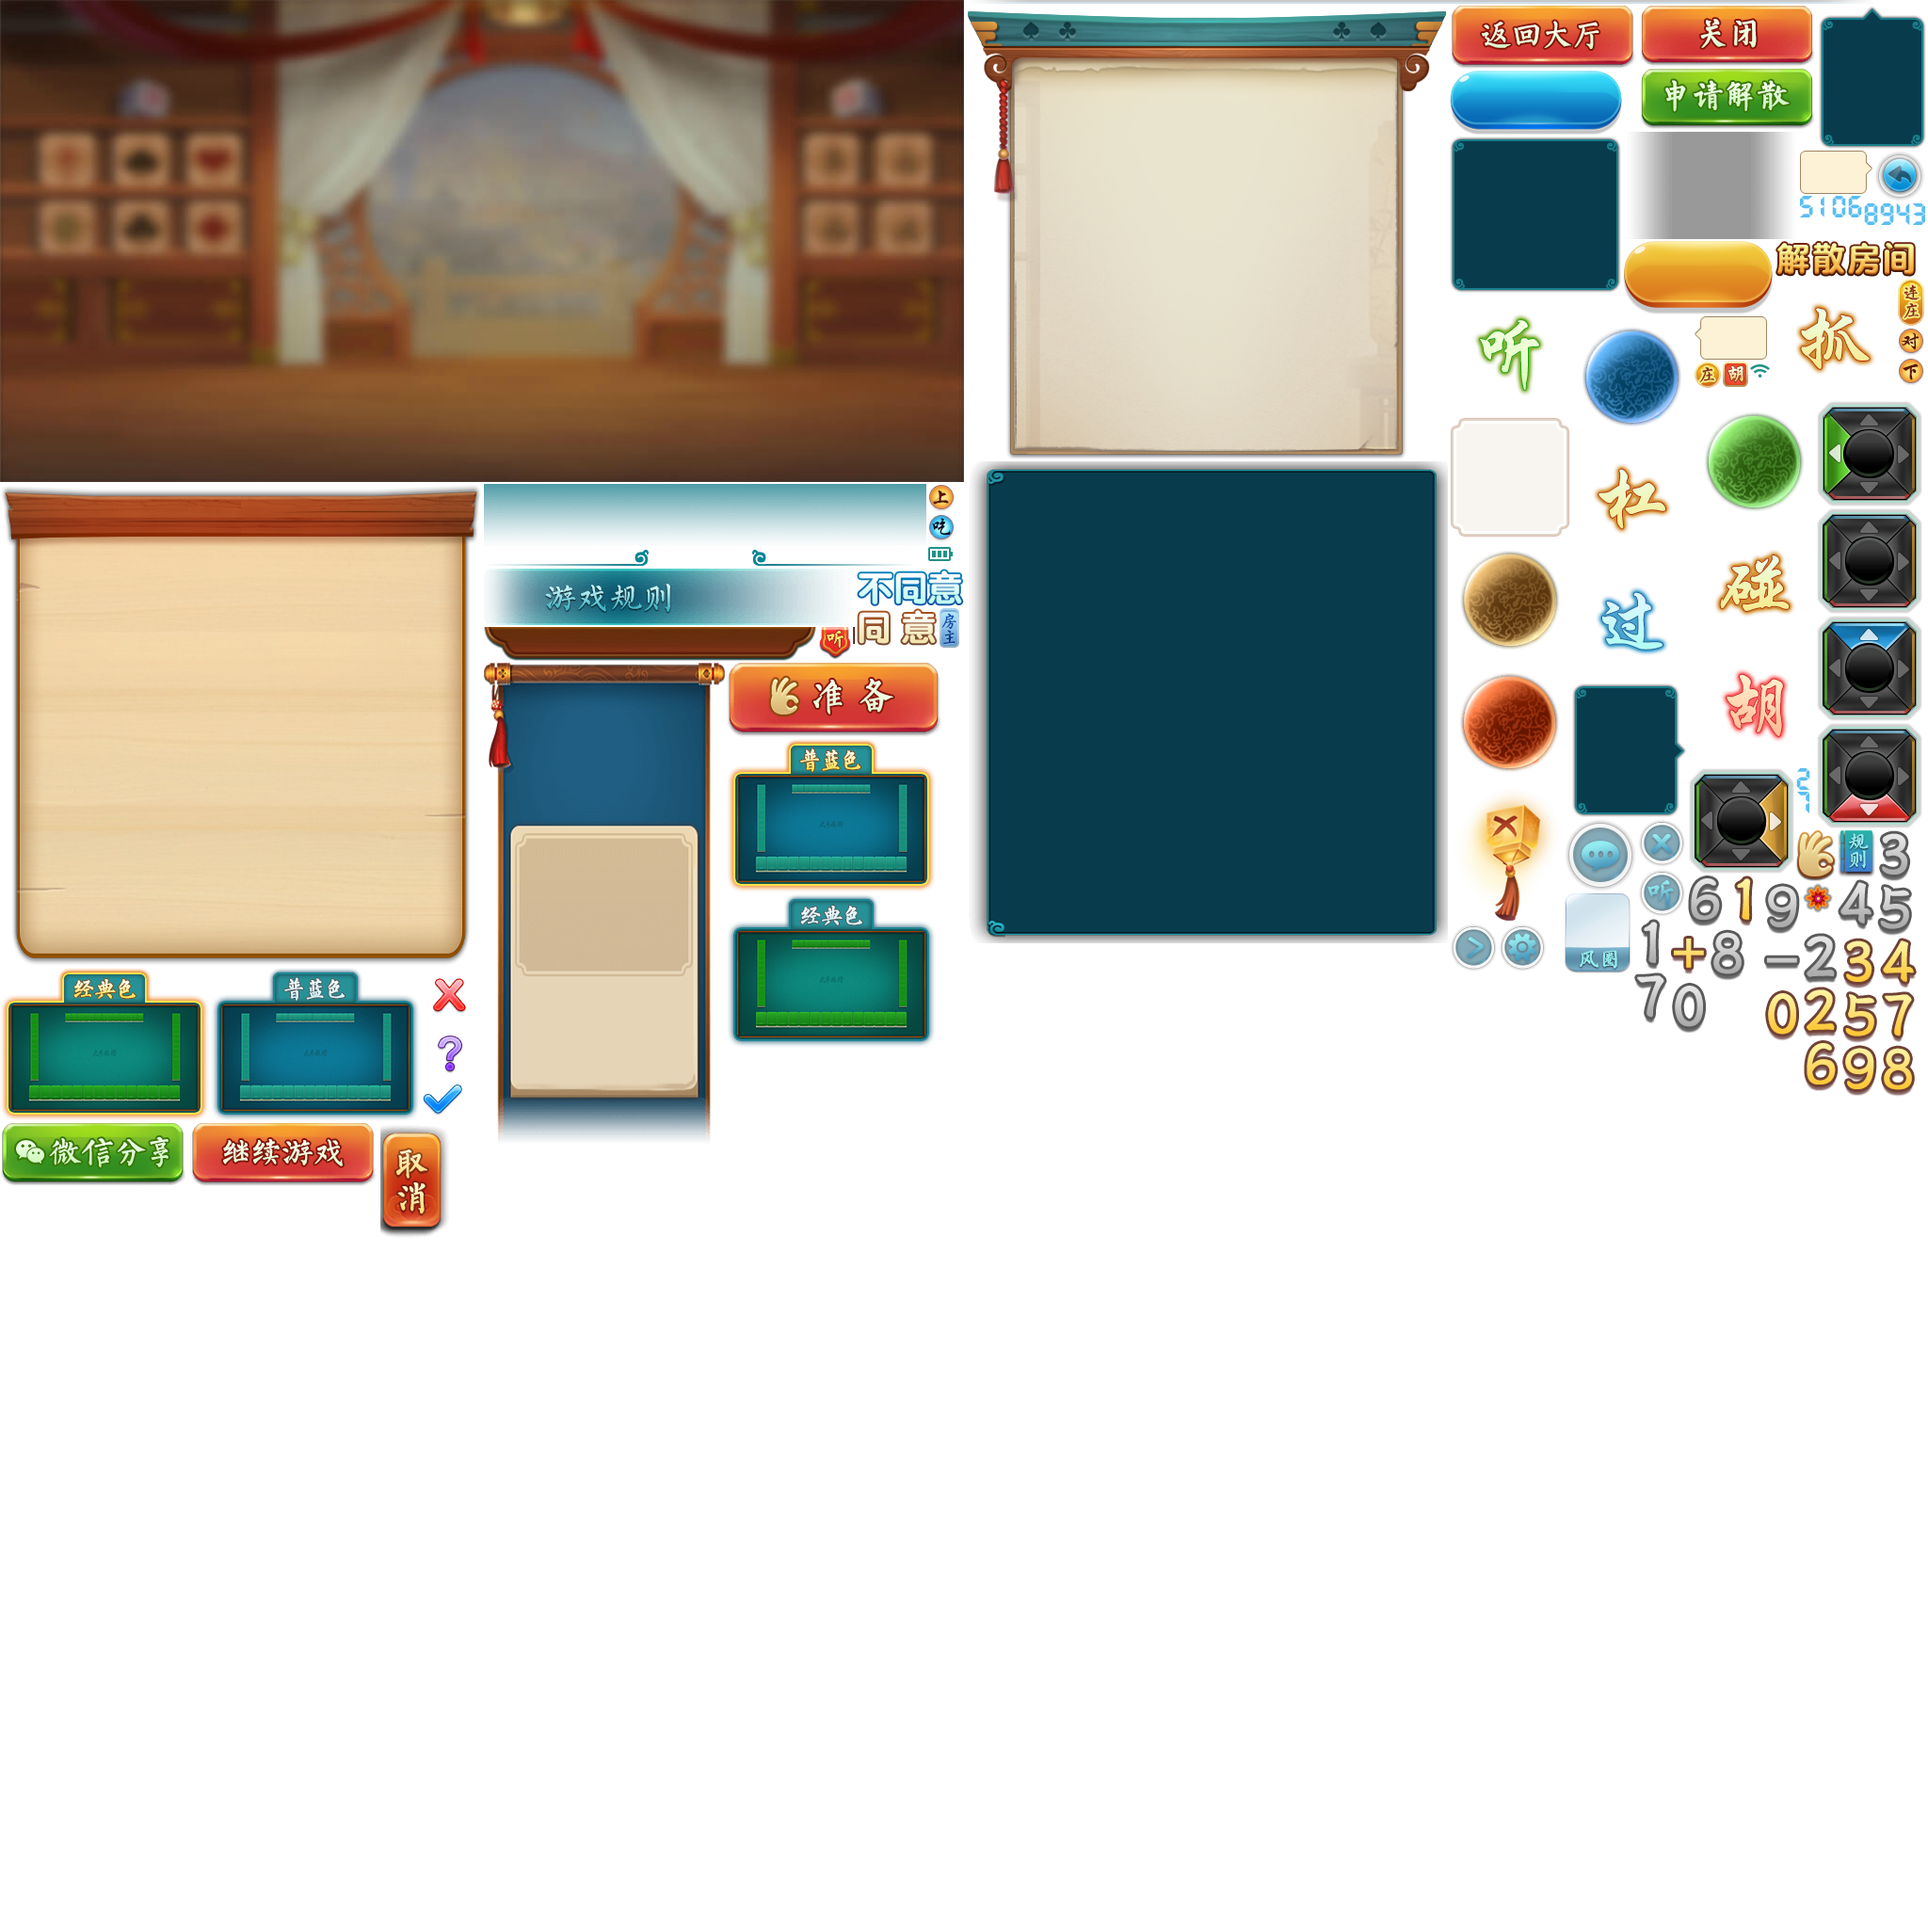
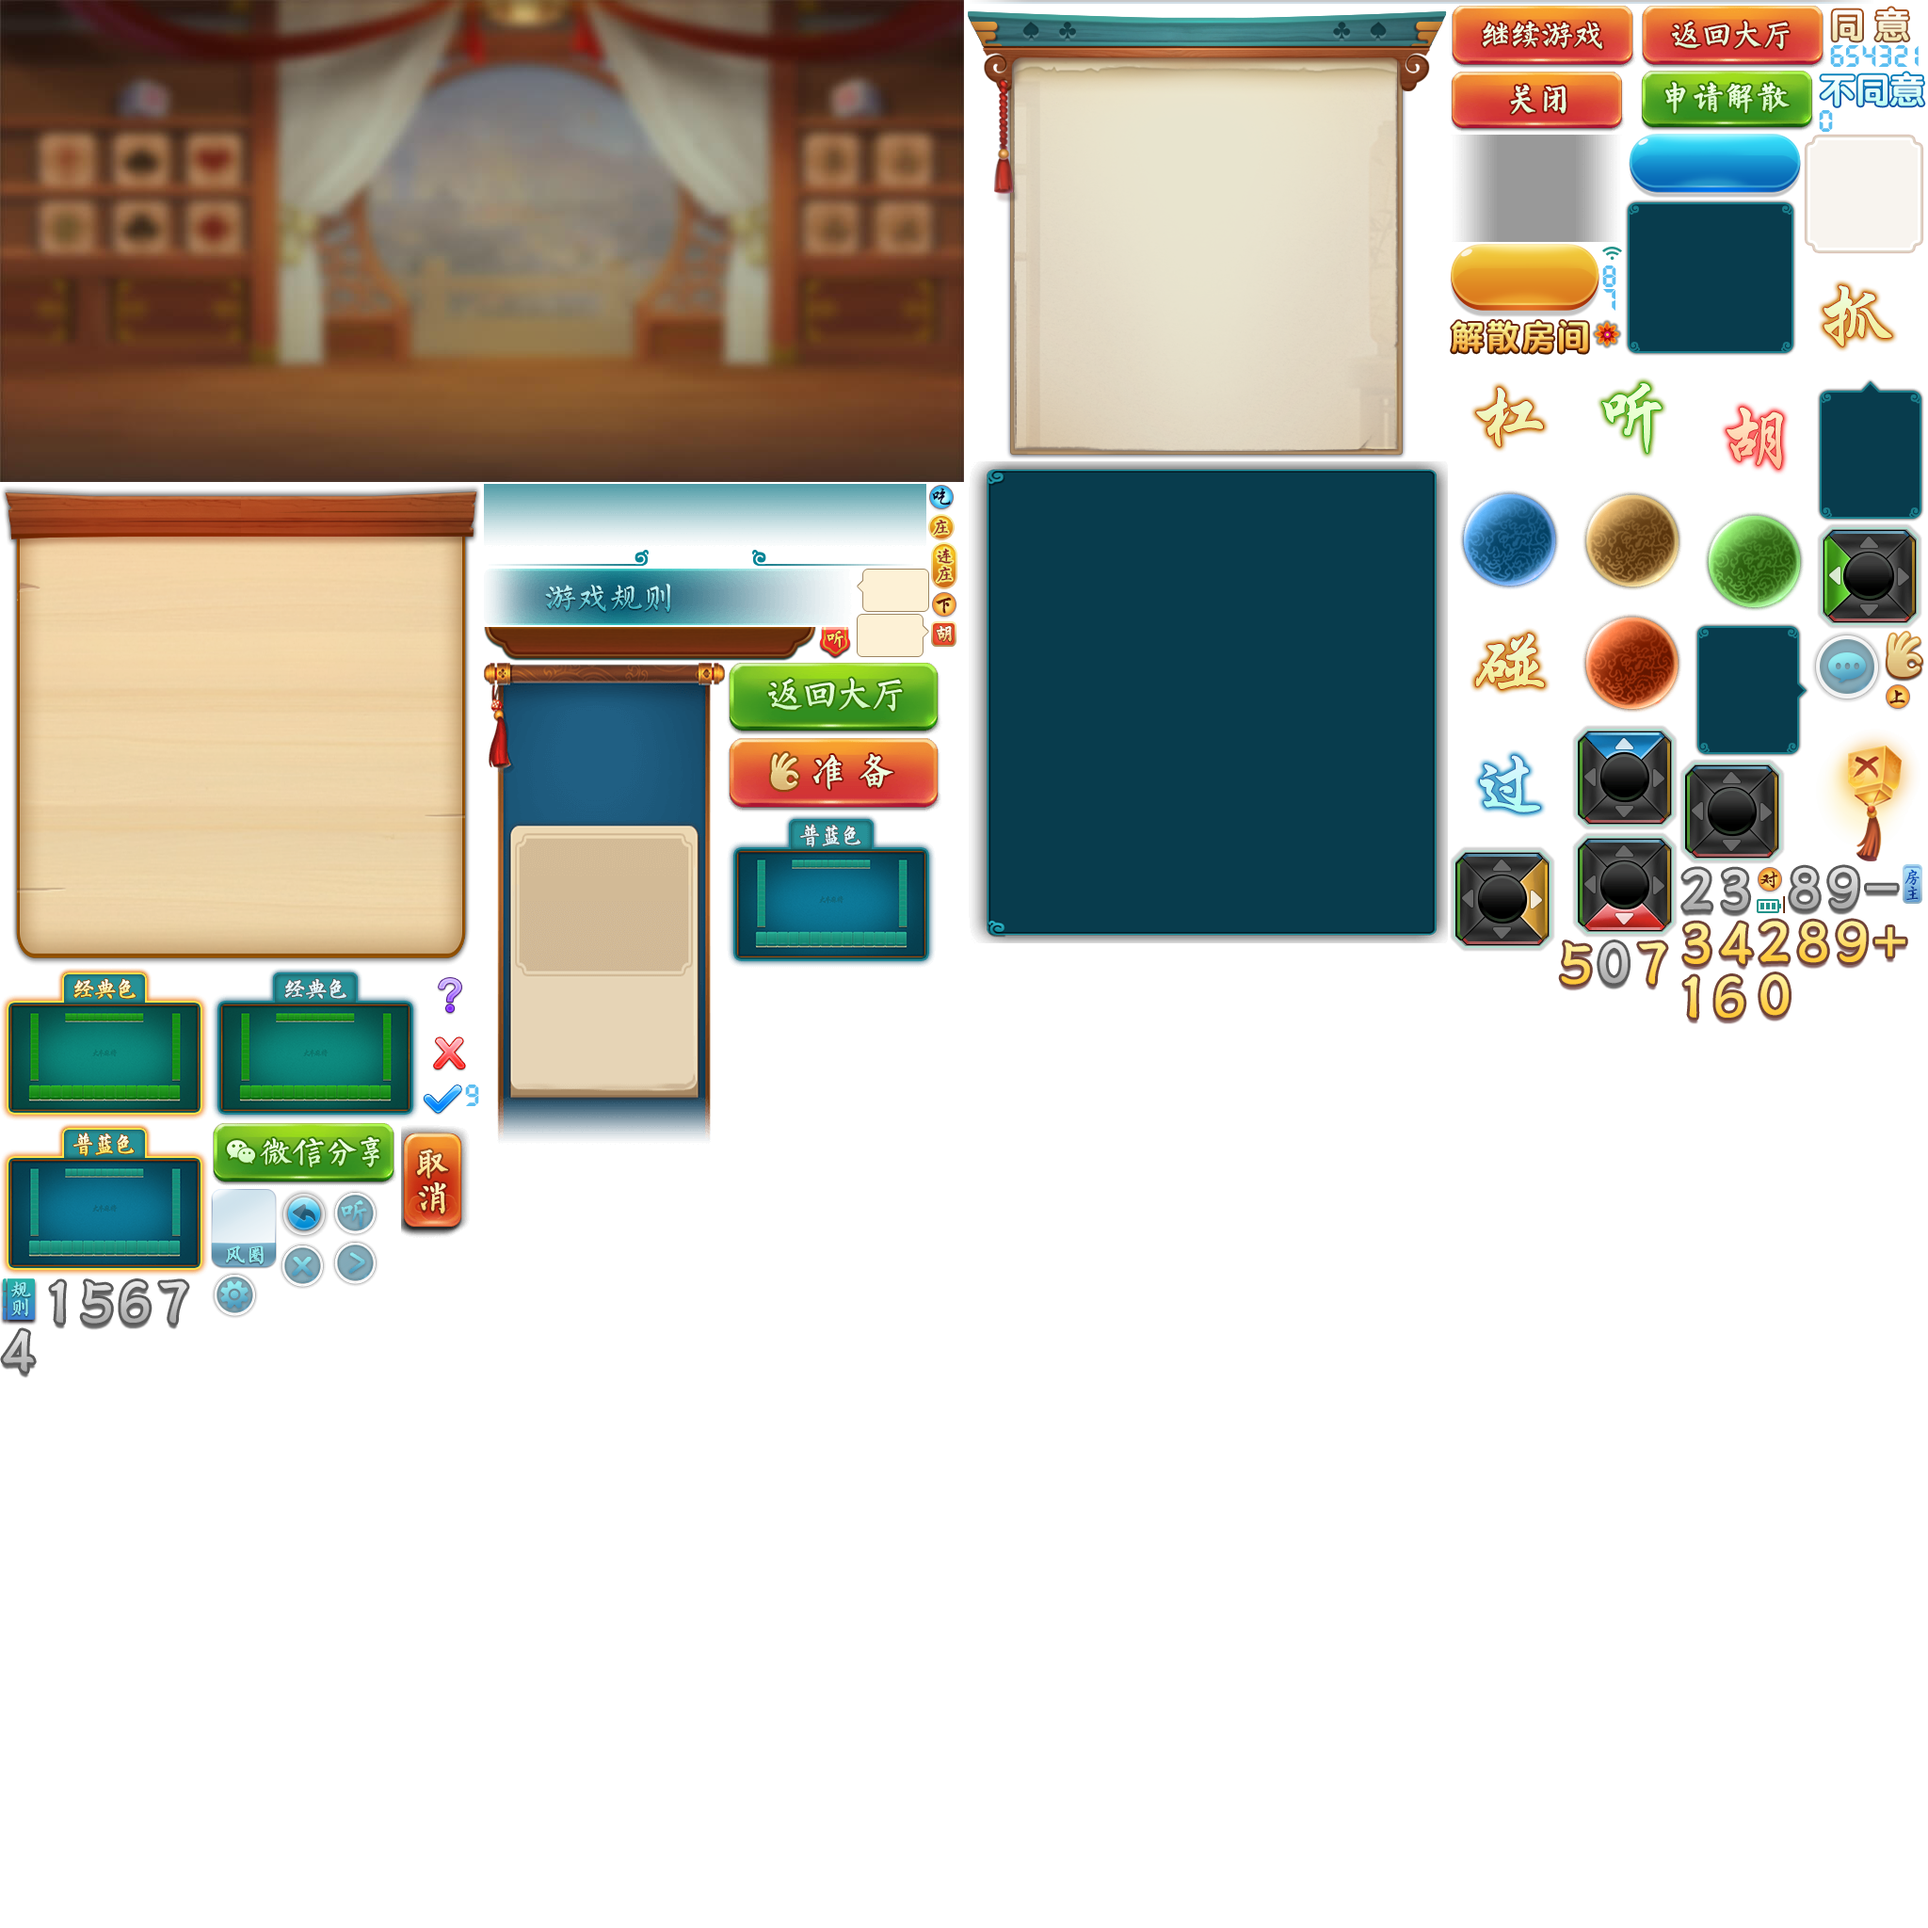
return 2 lobby btn

Changed region(s): [[0.75, 0.0, 1.0, 0.5625], [0.0, 0.5, 0.25, 0.7188], [0.375, 0.25, 0.5, 0.5625]]

diff --git a/assets/Script/modules/gameb/RoomView.ts b/assets/Script/modules/gameb/RoomView.ts
@@ -24,6 +24,8 @@ export class RoomView {
     private room: RoomInterface;
     private unityViewNode: fgui.GComponent;
     private readyButton: fgui.GButton;
+
+    private returnLobbyBtn: fgui.GButton;
     private roomInfoText: fgui.GObject;
     private roundMarkView: fgui.GComponent;
     private roundMarks: fgui.GObject[];
@@ -69,6 +71,7 @@ export class RoomView {
      */
     public showOrHideReadyButton(isShow: boolean): void {
         this.readyButton.visible = isShow;
+        this.returnLobbyBtn.visible = isShow;
     }
 
     //响应玩家点击左上角的退出按钮以及后退事件
@@ -338,6 +341,10 @@ export class RoomView {
         this.readyButton = this.unityViewNode.getChild("ready").asButton;
         this.readyButton.visible = false;
         this.readyButton.onClick(this.room.onReadyButtonClick, this.room);
+
+        this.returnLobbyBtn = this.unityViewNode.getChild("return2LobbyBtn").asButton;
+        this.returnLobbyBtn.visible = false;
+        this.returnLobbyBtn.onClick(this.room.onReturnLobbyBtnClick, this.room);
 
         // 调整微信版本的按钮位置
         // if (CC_WECHATGAME) {

diff --git a/assets/Script/modules/gameb/Room.ts b/assets/Script/modules/gameb/Room.ts
@@ -170,6 +170,12 @@ export class Room {
         this.host.sendBinary(buf);
     }
 
+    public onReturnLobbyBtnClick(): void {
+
+        this.sendMsg(proto.mahjong.MessageCode.OP2Lobby);
+
+    }
+
     // 根据玩家的chairID获得相应的playerViewChairID    // 注意服务器的chairID是由0开始
     public getPlayerViewChairIDByChairID(chairID: number): number {
         const myChairId = this.myPlayer.chairID;
@@ -306,11 +312,6 @@ export class Room {
 
         const actionMsgBuf = proto.mahjong.MsgDonate.encode(msgDonate);
         this.sendMsg(proto.mahjong.MessageCode.OPDonate, actionMsgBuf);
-    }
-
-    public sendReturnLobby(): void {
-
-        this.sendMsg(proto.mahjong.MessageCode.OP2Lobby);
     }
 
     // 显示道具动画

diff --git a/assets/Script/modules/gameb/RoomInterface.ts b/assets/Script/modules/gameb/RoomInterface.ts
@@ -144,6 +144,6 @@ export interface RoomInterface {
     getMyPlayerInfo(): PlayerInfo;
     sendDonate(donateId: number, toChairID: number): void;
 
-    sendReturnLobby(): void;
+    onReturnLobbyBtnClick(): void;
     showMsg(chatData: ChatData): void;
 }

diff --git a/assets/Script/modules/gameb/handlers/HandlerMsg2Lobby.ts b/assets/Script/modules/gameb/handlers/HandlerMsg2Lobby.ts
@@ -6,5 +6,7 @@ import { RoomInterface } from "../RoomInterface";
 export namespace HandlerMsg2Lobby {
     export const onMsg = async (msgData: ByteBuffer, room: RoomInterface): Promise<void> => {
         // TODO:
+
+        room.quit();
     };
 }
